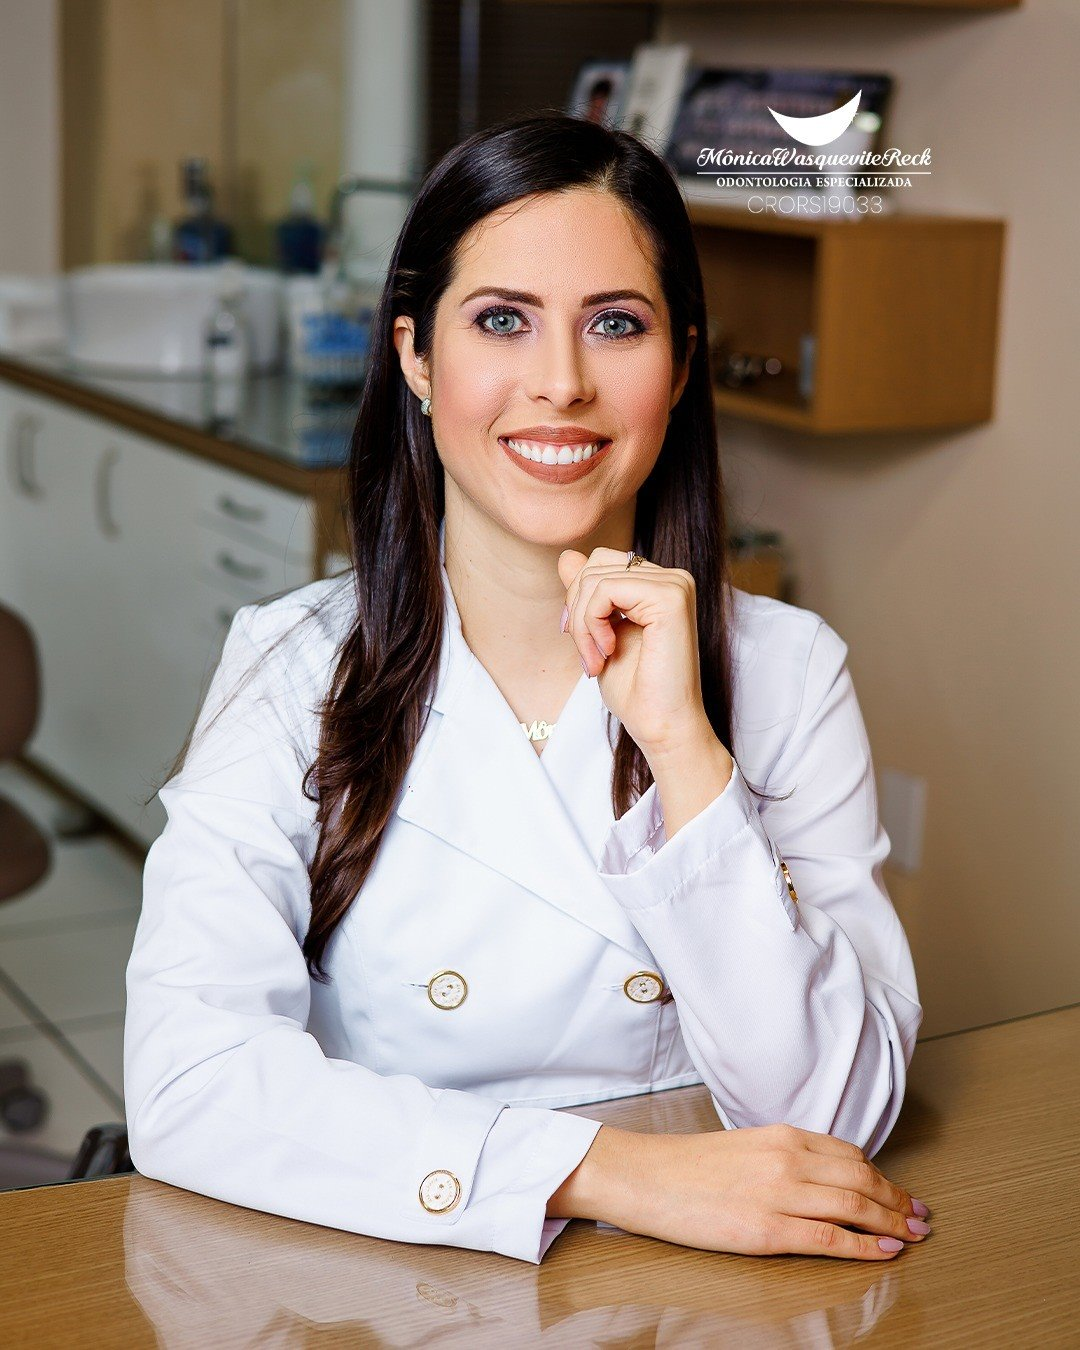
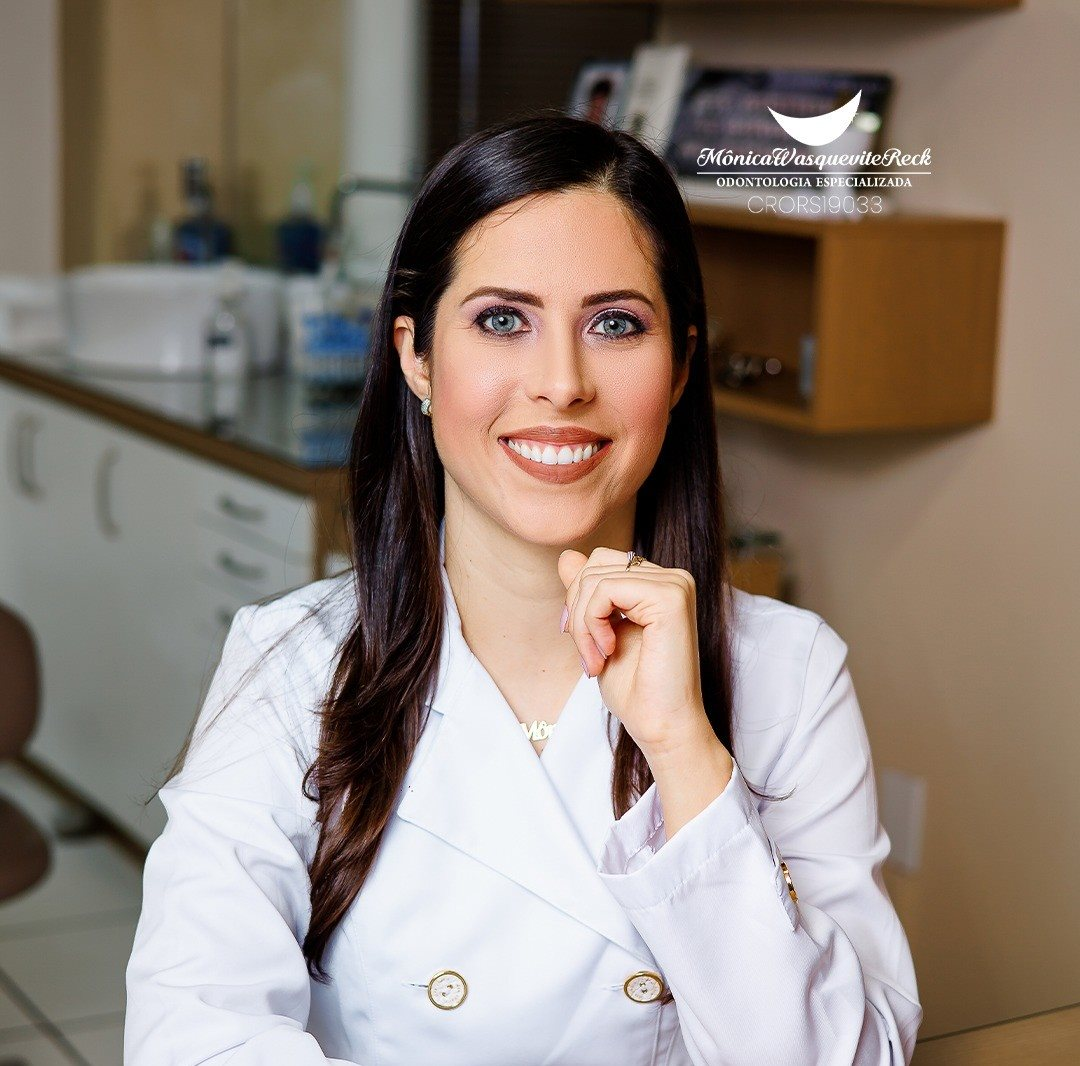
Ajustes: apenas 'Dentista', remove depoimentos e galeria, fotos otimizadas

diff --git a/index.html b/index.html
@@ -92,7 +92,7 @@
 
     <div class="hero__media reveal reveal--delay">
       <div class="hero__frame">
-        <img src="622558494_18089609222286409_5610068746848476364_n.jpg" alt="Dra. Mônica Wasquevite Reck em seu consultório odontológico em Alegrete" width="1080" height="1350">
+        <img src="monica-consultorio.jpg" alt="Dra. Mônica Wasquevite Reck em seu consultório odontológico em Alegrete" width="1080" height="1066">
       </div>
       <figcaption class="hero__caption">
         <span class="hero__caption-name">Mônica Wasquevite Reck</span>
@@ -136,7 +136,7 @@
 <section class="sobre" id="sobre">
   <div class="container sobre__grid">
     <figure class="sobre__media reveal">
-      <img src="624211546_18105552736627480_4293618313031623903_n.jpg" alt="Retrato profissional da Dra. Mônica Wasquevite Reck, dentista" loading="lazy" width="1080" height="1350">
+      <img src="monica-retrato.jpg" alt="Retrato profissional da Dra. Mônica Wasquevite Reck, dentista" loading="lazy" width="1080" height="1066">
     </figure>
 
     <div class="sobre__content reveal reveal--delay">
@@ -307,7 +307,7 @@
     </div>
 
     <figure class="orto__media reveal reveal--delay">
-      <img src="632611294_18413799310192731_8609120086562931226_n.jpg" alt="Dra. Mônica Wasquevite Reck, especialista em ortodontia" loading="lazy" width="640" height="800">
+      <img src="monica-ortodontia.jpg" alt="Dra. Mônica Wasquevite Reck, especialista em ortodontia" loading="lazy" width="640" height="799">
     </figure>
   </div>
 </section>
